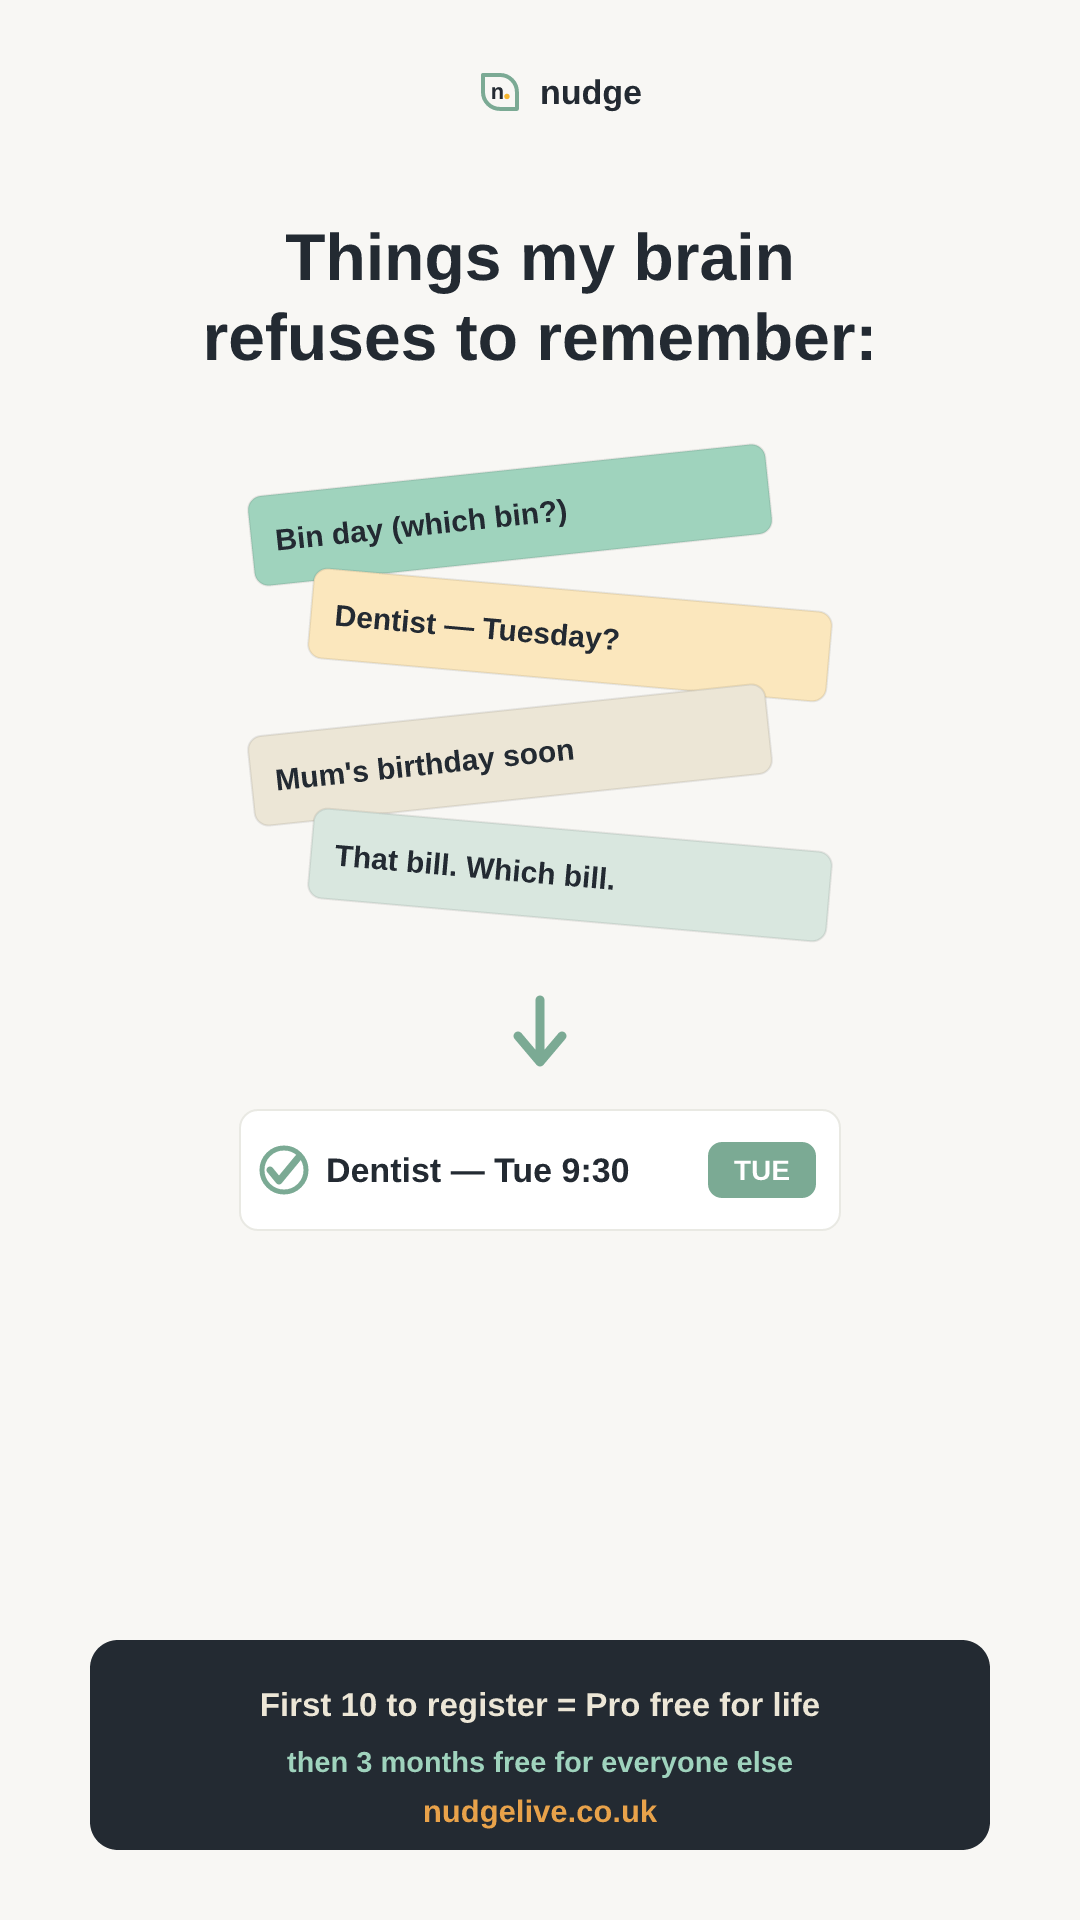
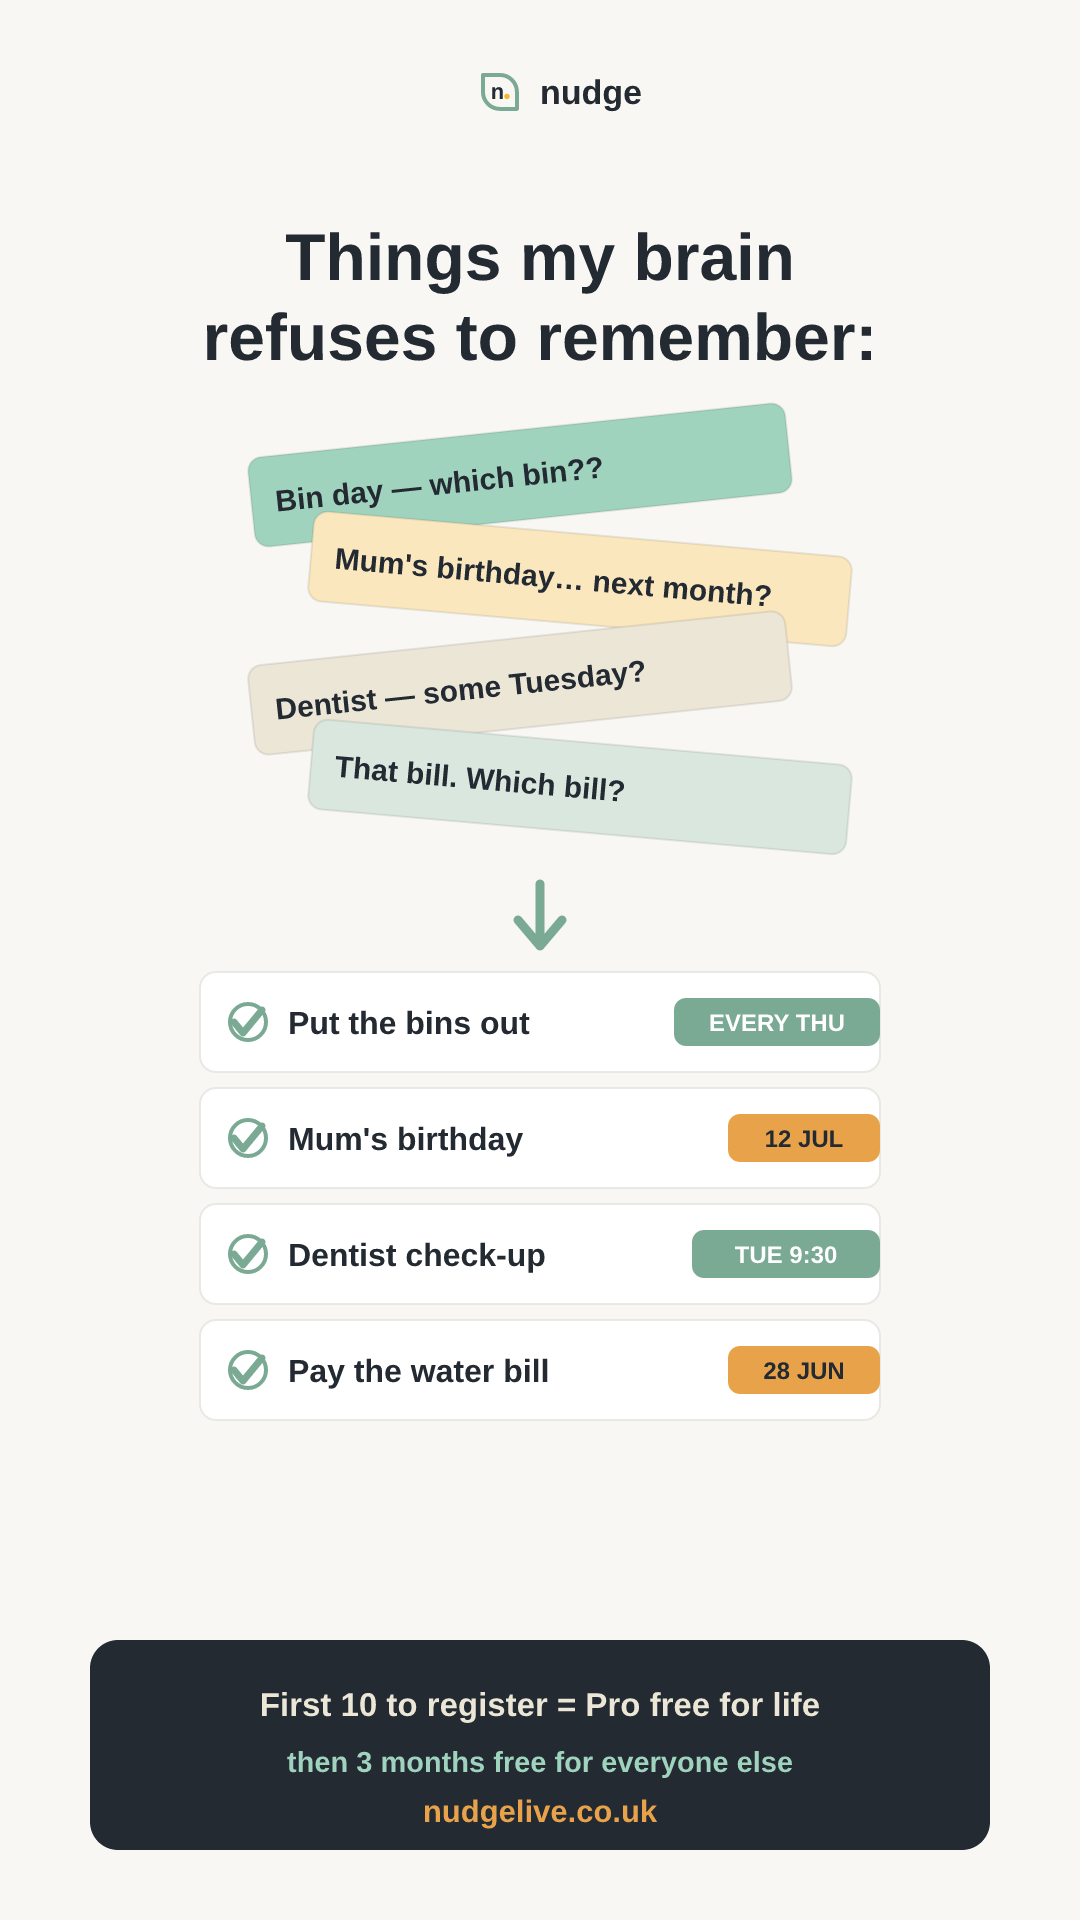
Day 2: map each brain-dump to its own dated/recurring task
Was 4 messy inputs → 1 dentist task. Now each vague note resolves to its own
reminder with a varied horizon — Put the bins out · EVERY THU (recurring),
Mum's birthday · 12 JUL, Dentist · TUE 9:30, Pay water bill · 28 JUN —
showcasing recurring + future-dated reminders. Cover + clip regenerated.

diff --git a/scripts/gen-social.ts b/scripts/gen-social.ts
@@ -230,14 +230,31 @@ function motif(d: Day, st: CStyle): { chaos: string; resolved: string } {
       const fills = [C.mint, "#FBE7BD", CREAM, "#D9E7DF"];
       const chaos = d.input.lines
         .slice(0, 4)
-        .map((l, i) =>
-          note(250 + (i % 2) * 60, 470 + i * 120, i % 2 ? 5 : -6, 520, fills[i % fills.length], l, C.navy),
-        )
+        .map((l, i) => note(250 + (i % 2) * 60, 430 + i * 104, i % 2 ? 5 : -6, 540, fills[i % fills.length], l, C.navy))
         .join("");
-      return {
-        chaos,
-        resolved: arrowDown(540, 1000, st.accent) + taskCard(240, 1110, 600, "Dentist — Tue 9:30", "TUE", st),
+      // Each brain-dump → its own dated/recurring reminder (chip shows the
+      // horizon; "EVERY THU" highlights recurring, "12 JUL" a future birthday).
+      const sorted: [string, string, boolean][] = [
+        ["Put the bins out", "EVERY THU", true],
+        ["Mum's birthday", "12 JUL", false],
+        ["Dentist check-up", "TUE 9:30", true],
+        ["Pay the water bill", "28 JUN", false],
+      ];
+      const mini = (y: number, title: string, chip: string, recurring: boolean) => {
+        const cw = chip.length * 18 + 44;
+        const cx = 880 - cw;
+        const fill = recurring ? C.green : C.amber;
+        return (
+          `<rect x="200" y="${y}" width="680" height="100" rx="16" fill="${C.white}" stroke="${C.border}" stroke-width="2"/>` +
+          `<circle cx="248" cy="${y + 50}" r="18" fill="none" stroke="${C.green}" stroke-width="4"/>` +
+          check(248, y + 50, C.green) +
+          `<text x="288" y="${y + 62}" font-size="32" font-weight="800" fill="${C.text}">${esc(title)}</text>` +
+          `<rect x="${cx}" y="${y + 26}" width="${cw}" height="48" rx="12" fill="${fill}"/>` +
+          `<text x="${cx + cw / 2}" y="${y + 59}" font-size="24" font-weight="800" fill="${recurring ? C.white : C.navy}" text-anchor="middle">${esc(chip)}</text>`
+        );
       };
+      const cards = sorted.map(([t, chip, rec], i) => mini(972 + i * 116, t, chip, rec)).join("");
+      return { chaos, resolved: arrowDown(540, 884, st.accent) + cards };
     }
     case "screenshot-graveyard": {
       const cells = [];
@@ -364,7 +381,7 @@ const DAYS: Day[] = [
     hook: ["Things my brain", "refuses to remember:"],
     input: {
       title: "MY HEAD, 9PM",
-      lines: ["Bin day (which bin?)", "Dentist — Tuesday?", "Mum's birthday soon", "That bill. Which bill."],
+      lines: ["Bin day — which bin??", "Mum's birthday… next month?", "Dentist — some Tuesday?", "That bill. Which bill?"],
       hint: "too much to hold.",
     },
     header: "✨ Now they live in Nudge",